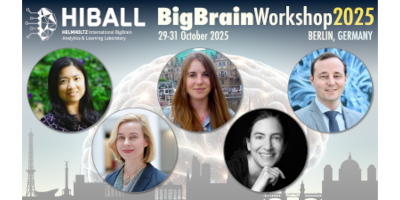
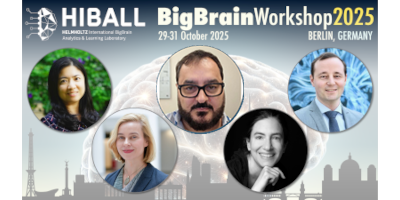
#295 replaced image and updated names

Changed region(s): [[0.39, 0.21, 0.63, 0.69]]

diff --git a/index.html b/index.html
@@ -178,7 +178,7 @@
                 <img src="images/news/9thbbworkshop_speakers.png" class="card-image-square">
                 <div class="tool-name">9th BigBrain Workshop</div>
                 <div class="tool-maker"><em>date: Aug 28, 2025</em></div>
-                <div class="tool-description">Join us in Berlin for the 9th BigBrain Workshop and connect with an outstanding lineup of speakers: Helen Zhou, Alexandra Young, Andreas Horn, Petra Ritter, Dagmar Kainmüller.
+                <div class="tool-description">Join us in Berlin for the 9th BigBrain Workshop and connect with an outstanding lineup of speakers: Helen Zhou, Kâmil Uludağ, Andreas Horn, Petra Ritter, Dagmar Kainmüller.
                 </div>
                 <a href="https://go.fzj.de/BigBrainWorkshop2025" class="tool-link" target="_blank">Register and submit your poster contribution<i class="fas fa-arrow-right"></i></a><br>
               </div>
